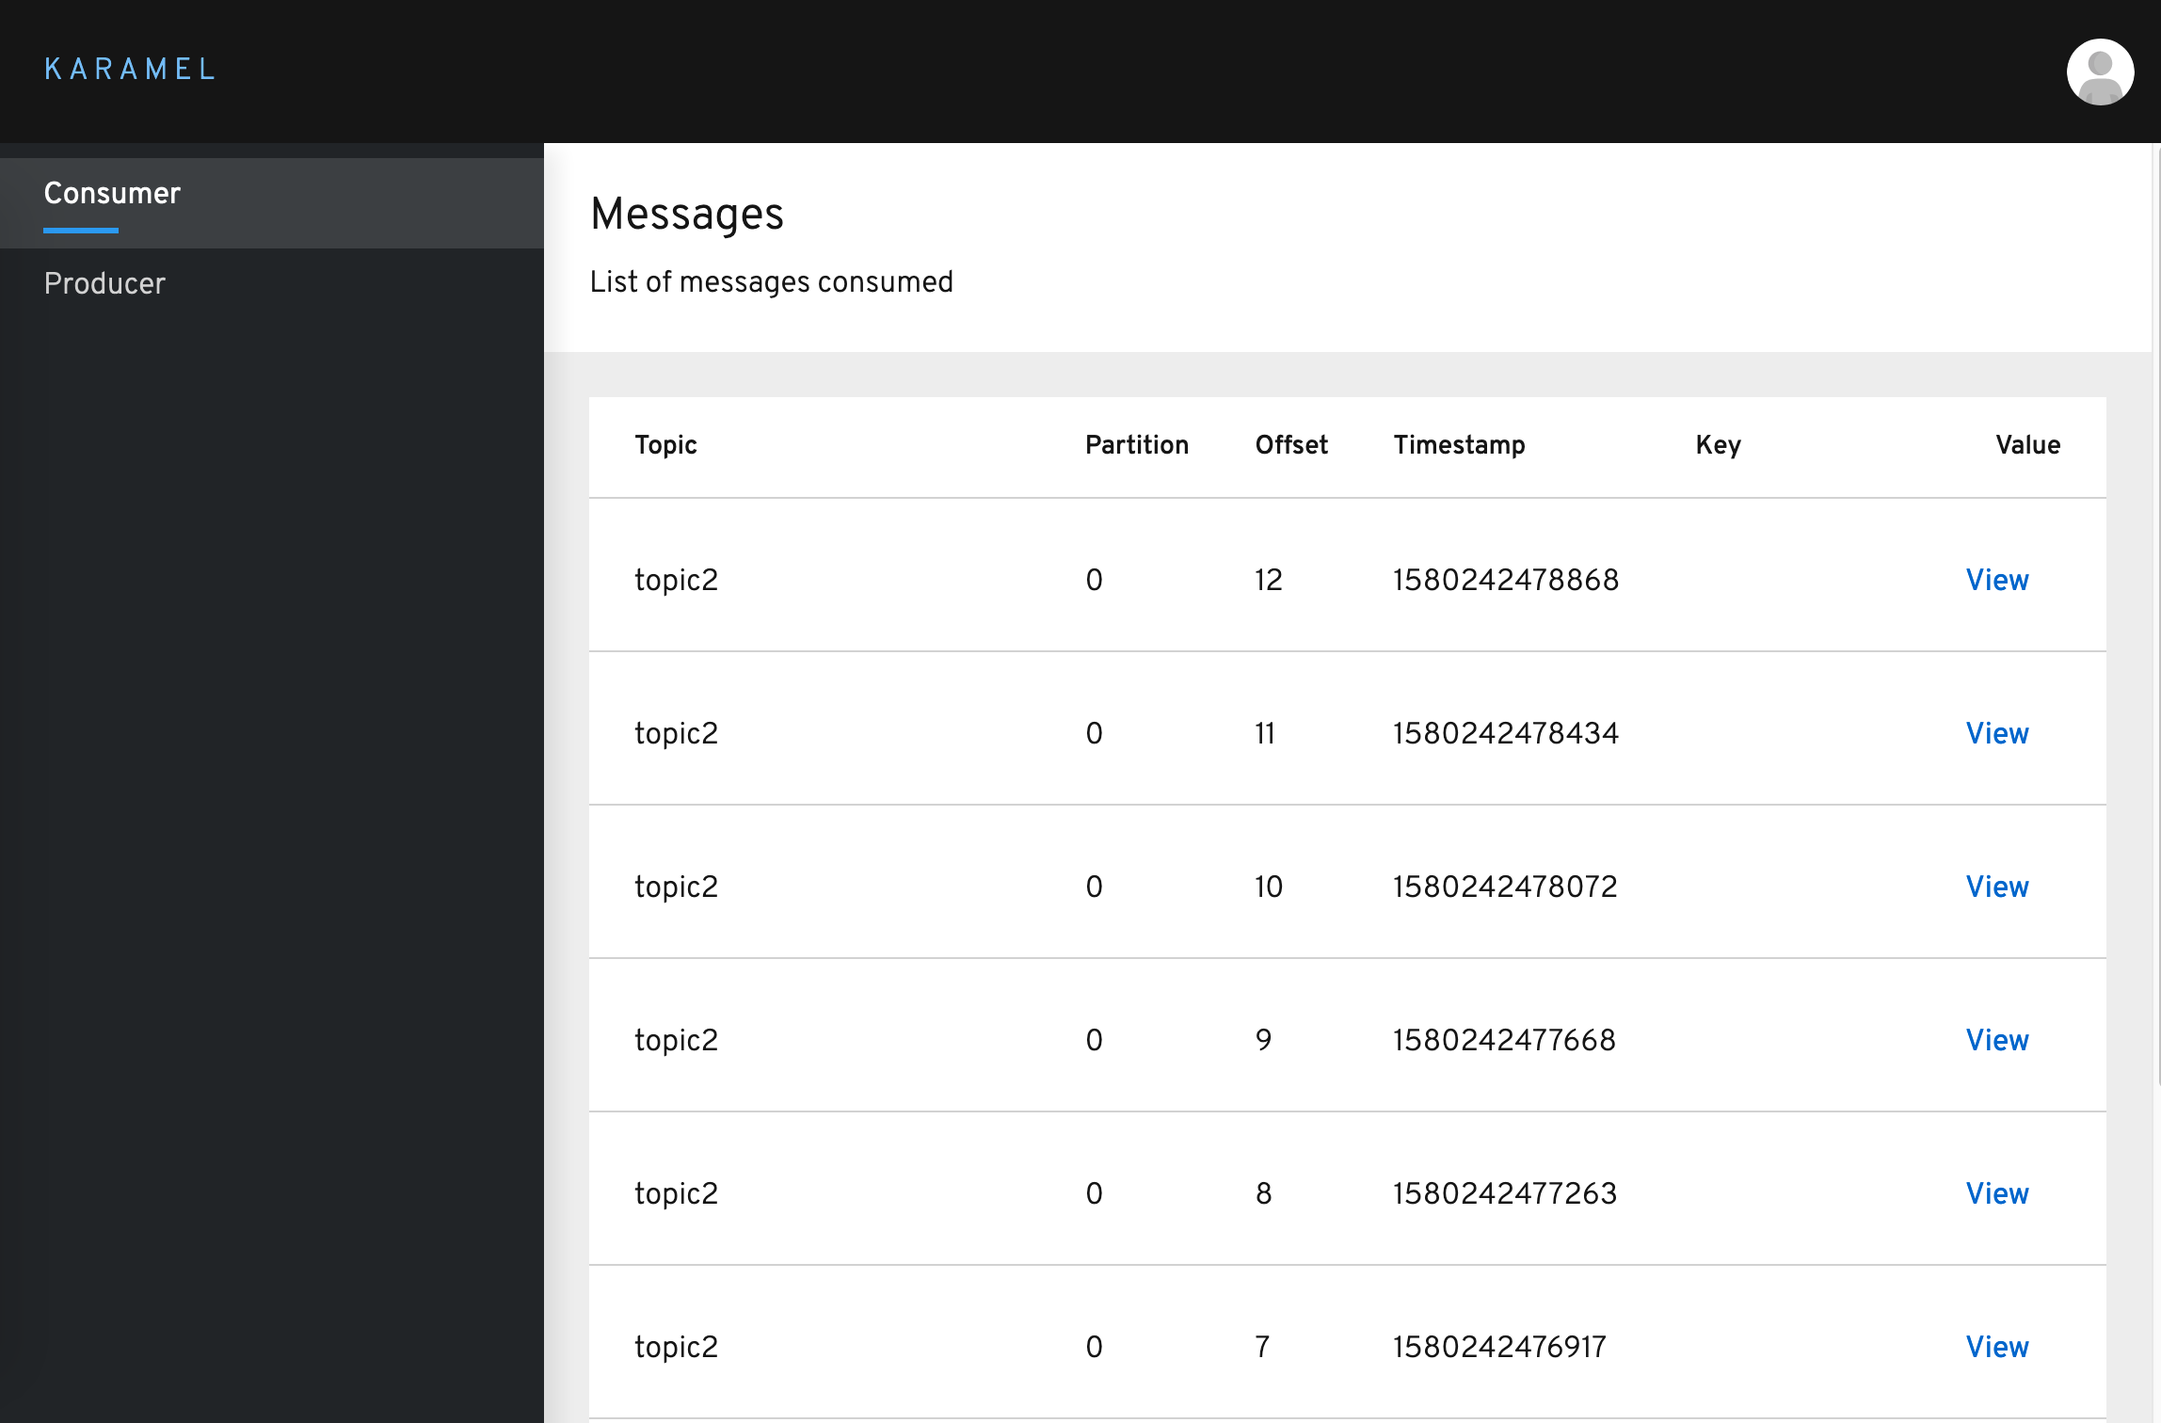
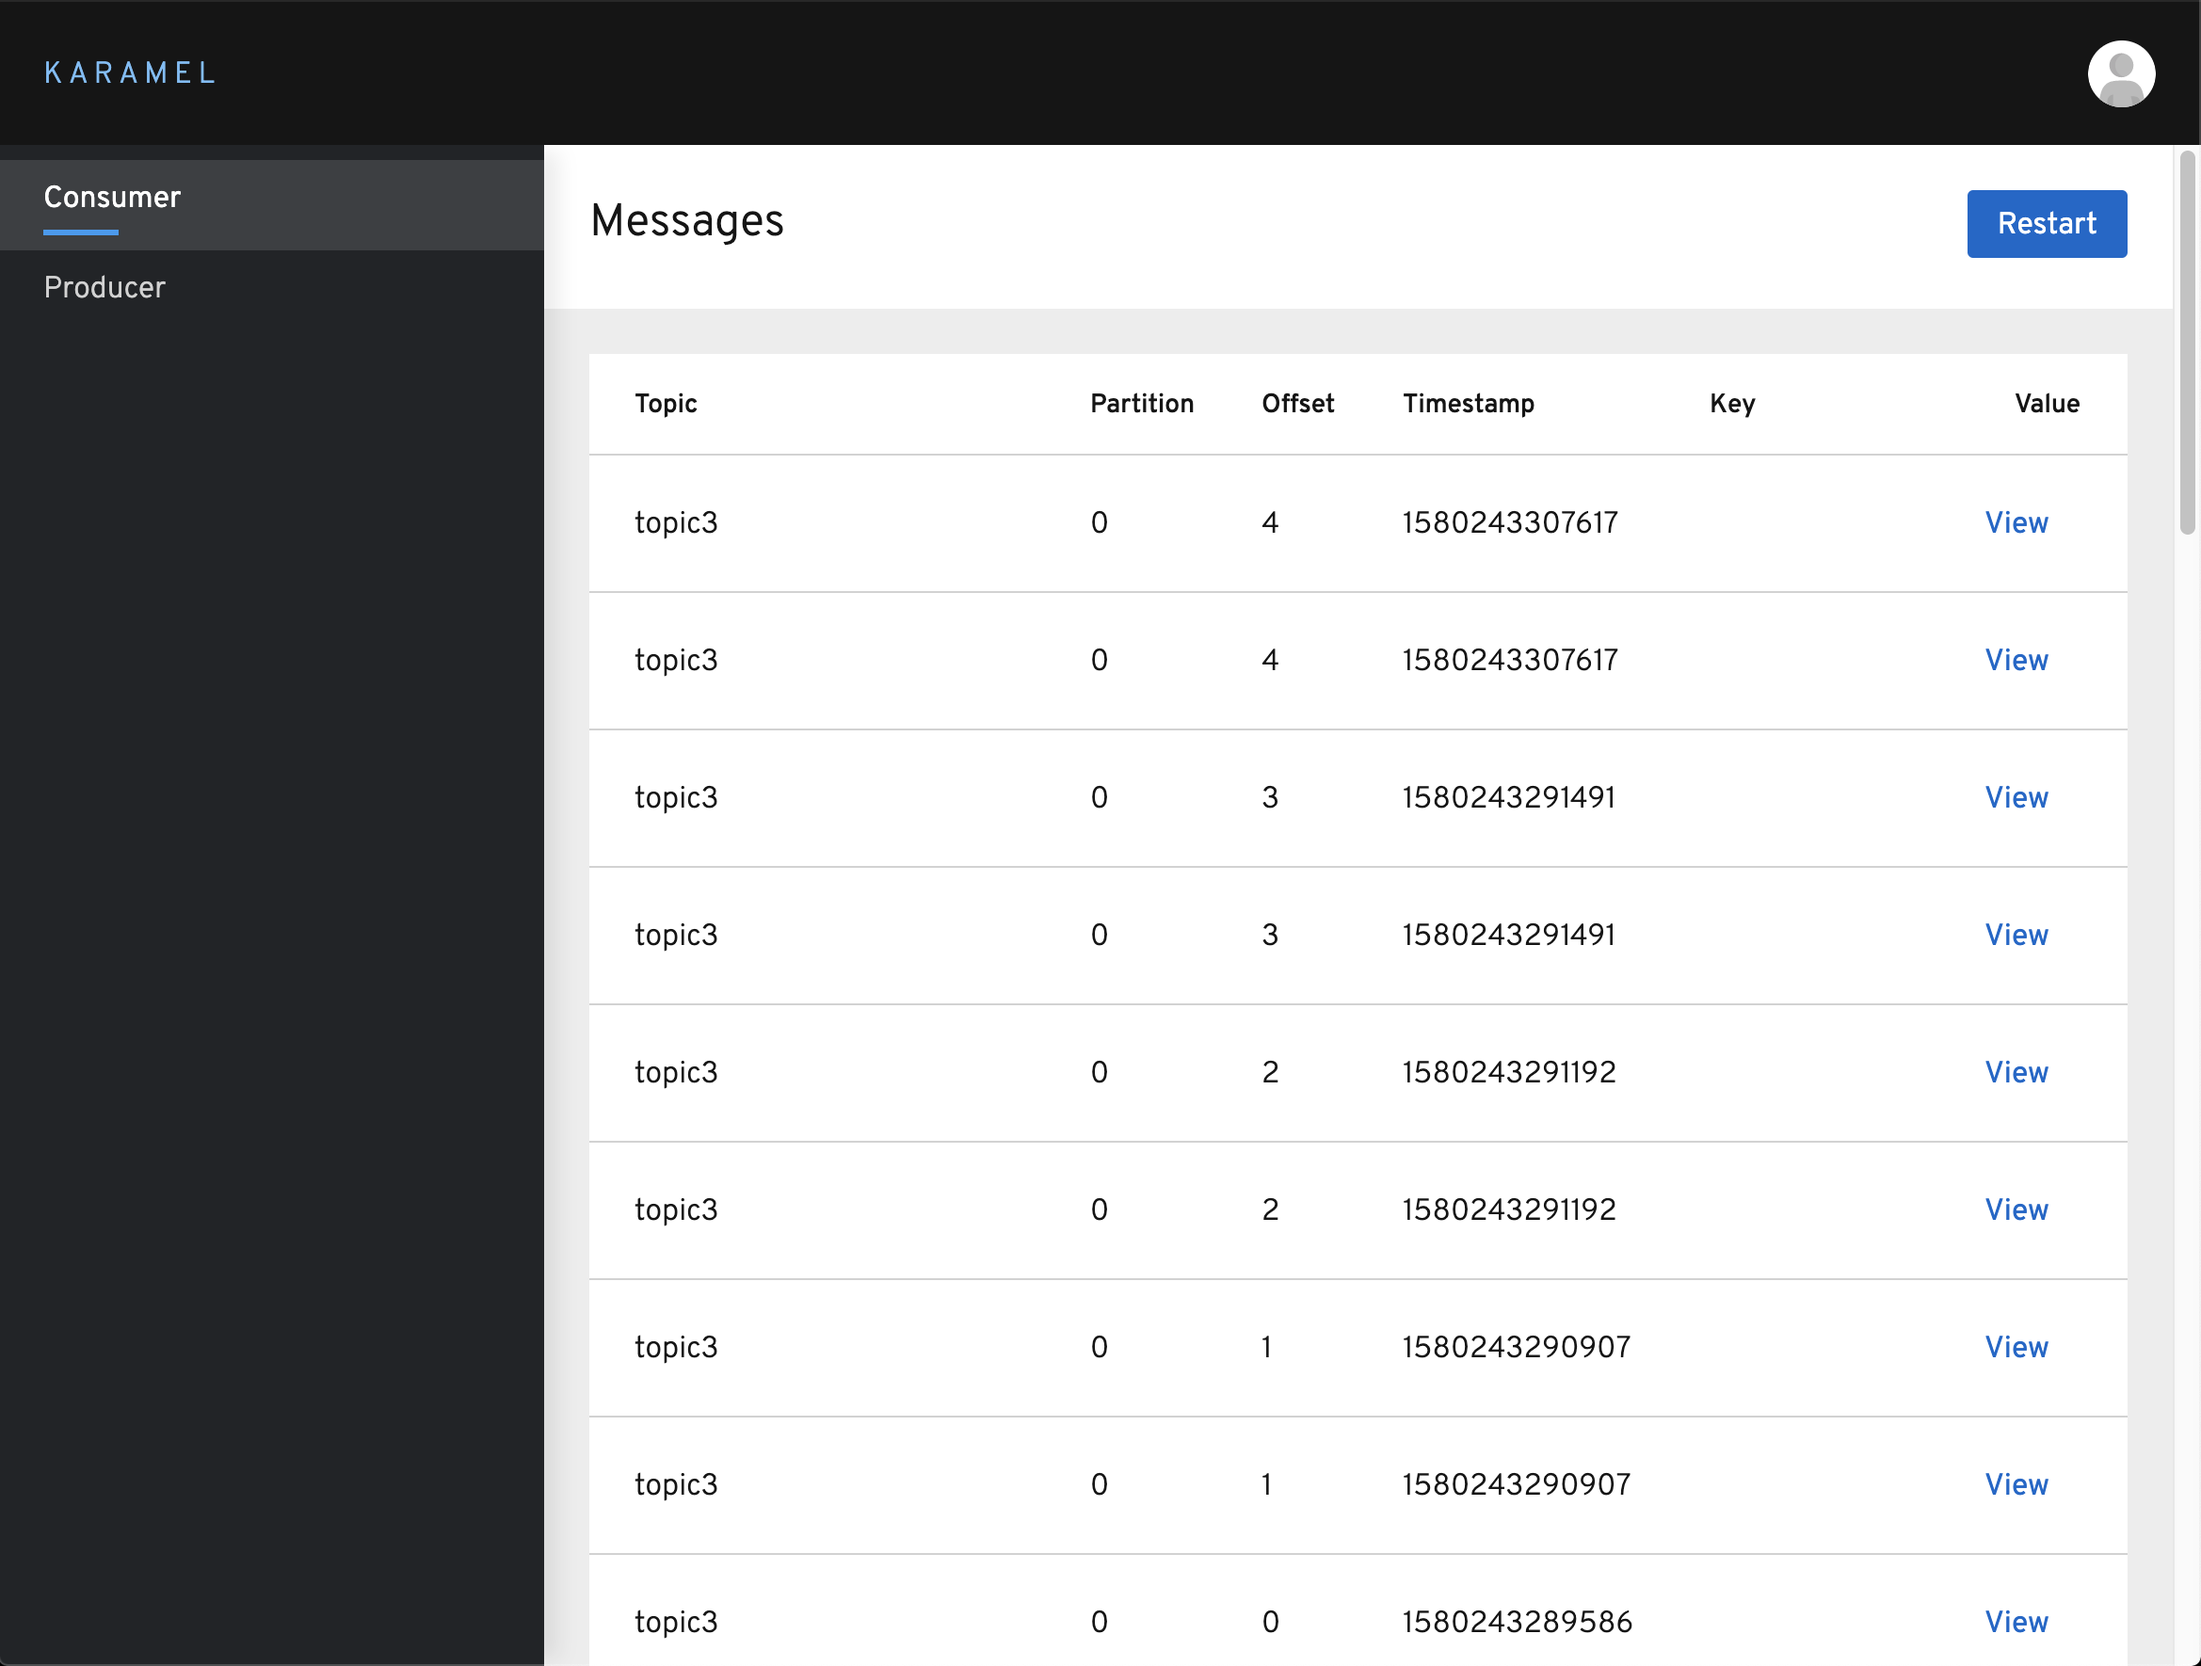
Consumer restart added

diff --git a/src/main/resources/templates/consumer.html b/src/main/resources/templates/consumer.html
@@ -3,9 +3,18 @@
 
 <main role="main" class="pf-c-page__main" tabindex="-1" id="main-content-page-default-nav-example">
   <section class="pf-c-page__main-section pf-m-light">
-    <div class="pf-c-content">
-      <h1>Messages</h1>
-      <p>List of messages consumed</p>
+    <div class="pf-l-split pf-m-gutter">
+      <div class="pf-l-split__item">
+        <div class="pf-c-content">
+          <h1>Messages</h1>
+        </div>
+      </div>
+      <div class="pf-l-split__item pf-m-fill"></div>
+      <div class="pf-l-split__item">
+        <form class="pf-u-align-self-center" action="/restart" method="POST" name="karamelForm" up-target=".container">
+          <button class="pf-c-button pf-m-primary" type="submit">Restart</button>
+        </form>
+      </div>
     </div>
   </section>
   <section class="pf-c-page__main-section">

diff --git a/src/main/java/one/entropy/karamel/KaramelResource.java b/src/main/java/one/entropy/karamel/KaramelResource.java
@@ -20,6 +20,8 @@ import java.util.List;
 import java.util.Objects;
 import java.util.stream.Collectors;
 
+import static one.entropy.karamel.KaramelRoute.CONSUMER_ROUTE_ID;
+
 @Path("/")
 public class KaramelResource {
 
@@ -101,6 +103,13 @@ public class KaramelResource {
     public Response publish(@MultipartForm KaramelMessageForm form) {
         KaramelMessage km = form.getKaramelMessage();
         context.createProducerTemplate().sendBody("direct:message", km);
+        return Response.status(301).location(URI.create("/consumer")).build();
+    }
+
+    @POST
+    @Path("/restart")
+    public Response restart() {
+        context.createProducerTemplate().sendBody("controlbus:route?routeId="+CONSUMER_ROUTE_ID+"&action=restart", null);
         return Response.status(301).location(URI.create("/consumer")).build();
     }
 }

diff --git a/src/main/java/one/entropy/karamel/KaramelRoute.java b/src/main/java/one/entropy/karamel/KaramelRoute.java
@@ -11,12 +11,15 @@ import javax.inject.Singleton;
 @Singleton
 public class KaramelRoute extends RouteBuilder {
 
+    protected static final String CONSUMER_ROUTE_ID = "consumerRoute";
+
     @Inject
     EventBus bus;
 
     @Override
     public void configure() throws Exception {
         from("kafka:.*?topicIsPattern=true&autoOffsetReset=earliest")
+                .routeId(CONSUMER_ROUTE_ID)
                 .process(this::processIncoming);
 
         from("direct:message")

diff --git a/src/main/java/one/entropy/karamel/KaramelSocket.java b/src/main/java/one/entropy/karamel/KaramelSocket.java
@@ -27,7 +27,7 @@ public class KaramelSocket {
     @OnError
     public void onError(Session session, Throwable throwable) {
         this.session = null;
-        LOGGER.error("onError", throwable);
+        LOGGER.error("onError", throwable.getMessage());
     }
 
     protected void broadcast(String message) {
